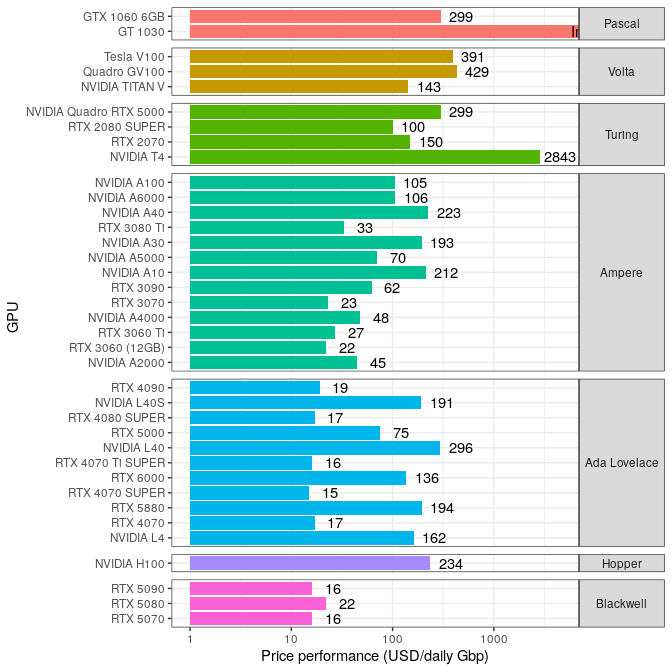
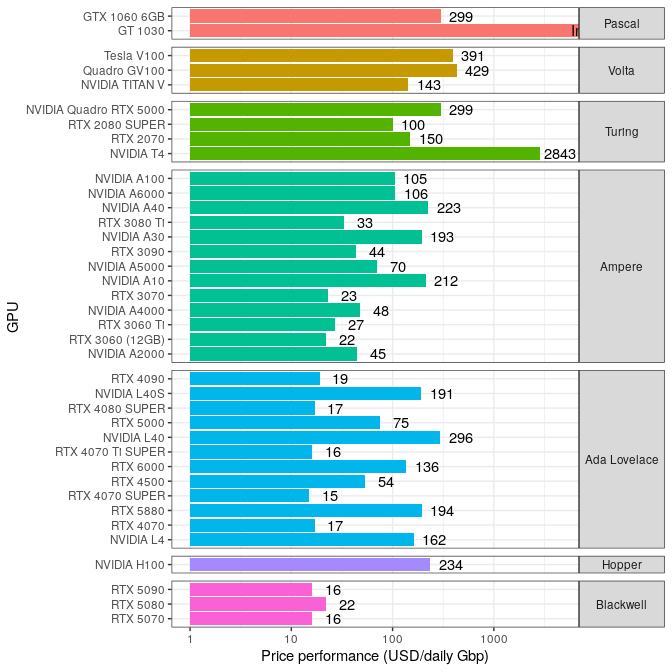
added a few more data points including the RTX4500

Changed region(s): [[0.0312, 0.0312, 1.0, 0.9062], [0.875, 0.6562, 0.9688, 0.7188], [0.875, 0.375, 0.9688, 0.4375]]

diff --git a/README.md b/README.md
@@ -1,7 +1,7 @@
 README
 ================
 Rasmus Kirkegaard
-15 September, 2025
+25 September, 2025
 
 ## Aim
 
